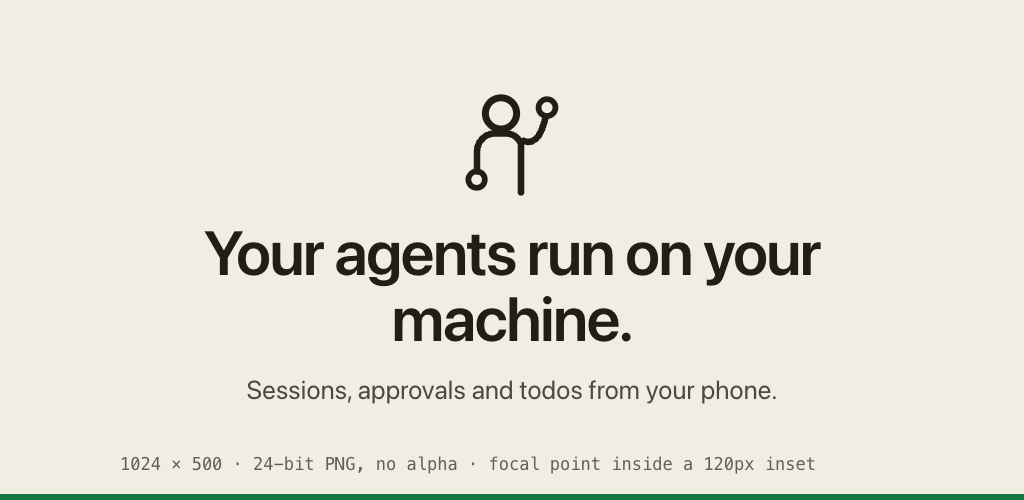
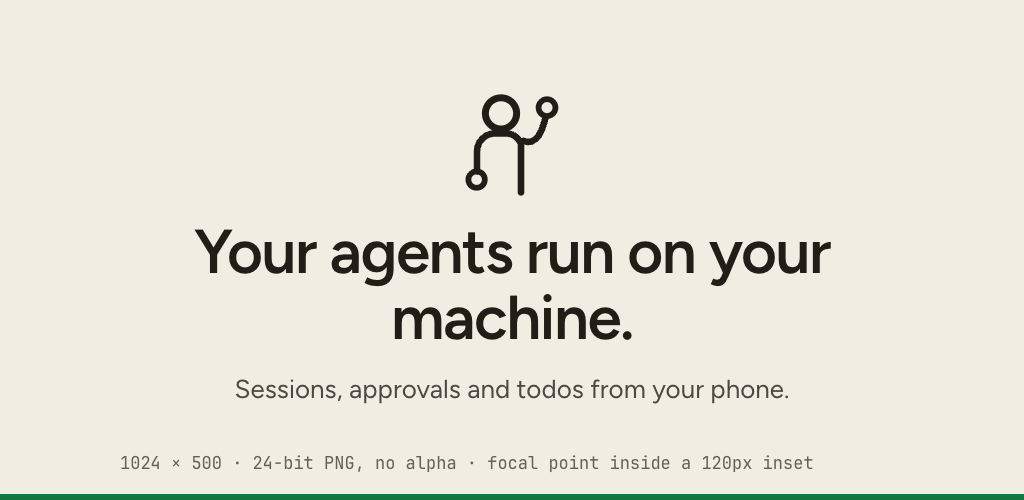
fix(design): load the vendored faces in the store capture templates
The store frame templates and the Play feature graphic name Figtree and JetBrains Mono, but nothing ever loaded them: on a machine where the faces are not installed — verified here, where neither is a system font — every caption silently fell back to the platform sans, changing the type scale and line-break rhythm of assets whose whole point is exactness. design/preview/index.html already loads real faces for exactly this reason; these files now carry their own @font-face rules pointing at the woff2s committed in design/fonts/, so every render gets the same type on any machine, including a fresh clone with no sibling checkout.

Evidence: the iPhone frame and the feature graphic re-render with visibly different (correct) type; the feature PNG is re-rendered by the same capture script, and design/preview/capture.mjs --check stays green (kit frames byte-identical, feature byte-identical to the fresh render, frame sizes pass).

diff --git a/design/store-screenshots/iphone-6.9.html b/design/store-screenshots/iphone-6.9.html
@@ -26,6 +26,28 @@
 			 * Sources for the sizes (read 2026-09-29):
 			 *   https://developer.apple.com/help/app-store-connect/reference/app-information/screenshot-specifications
 			 */
+			/* The vendored faces. Without a @font-face, `font-family: "Figtree"`
+			 * below matches nothing on a machine where the font is not installed,
+			 * and the caption silently falls back to the platform sans — wrong type
+			 * scale, wrong line breaks, in an asset whose whole point is exactness.
+			 * design/preview/index.html loads its faces for the same reason; this
+			 * one is self-contained, pointing at the woff2s committed beside it. */
+			@font-face {
+				font-family: "Figtree";
+				src: url("../fonts/figtree-variable-latin.woff2") format("woff2");
+				font-weight: 300 900;
+				font-style: normal;
+				font-display: block;
+			}
+
+			@font-face {
+				font-family: "JetBrains Mono";
+				src: url("../fonts/jetbrains-mono-variable.woff2") format("woff2");
+				font-weight: 100 800;
+				font-style: normal;
+				font-display: block;
+			}
+
 			* {
 				box-sizing: border-box;
 				margin: 0;

diff --git a/design/app-icon/store/play-feature-graphic.html b/design/app-icon/store/play-feature-graphic.html
@@ -40,6 +40,28 @@
 			 * that will not be visible at listing scale, and a 1024x500 crop of a
 			 * 390-wide phone UI is exactly that failure.
 			 */
+			/* The vendored faces. Without a @font-face, `font-family: "Figtree"`
+			 * below matches nothing on a machine where the font is not installed,
+			 * and the headline silently falls back to the platform sans — wrong type
+			 * scale, wrong line breaks, in an asset whose whole point is exactness.
+			 * design/preview/index.html loads its faces for the same reason; this
+			 * one is self-contained, pointing at the woff2s committed in design/. */
+			@font-face {
+				font-family: "Figtree";
+				src: url("../../fonts/figtree-variable-latin.woff2") format("woff2");
+				font-weight: 300 900;
+				font-style: normal;
+				font-display: block;
+			}
+
+			@font-face {
+				font-family: "JetBrains Mono";
+				src: url("../../fonts/jetbrains-mono-variable.woff2") format("woff2");
+				font-weight: 100 800;
+				font-style: normal;
+				font-display: block;
+			}
+
 			* {
 				box-sizing: border-box;
 				margin: 0;

diff --git a/design/store-screenshots/ipad-13.html b/design/store-screenshots/ipad-13.html
@@ -23,6 +23,28 @@
 			 * by 2064/1320 (1.564x) so the two listings read with the same
 			 * proportions rather than the iPad looking under-typeset.
 			 */
+			/* The vendored faces. Without a @font-face, `font-family: "Figtree"`
+			 * below matches nothing on a machine where the font is not installed,
+			 * and the caption silently falls back to the platform sans — wrong type
+			 * scale, wrong line breaks, in an asset whose whole point is exactness.
+			 * design/preview/index.html loads its faces for the same reason; this
+			 * one is self-contained, pointing at the woff2s committed beside it. */
+			@font-face {
+				font-family: "Figtree";
+				src: url("../fonts/figtree-variable-latin.woff2") format("woff2");
+				font-weight: 300 900;
+				font-style: normal;
+				font-display: block;
+			}
+
+			@font-face {
+				font-family: "JetBrains Mono";
+				src: url("../fonts/jetbrains-mono-variable.woff2") format("woff2");
+				font-weight: 100 800;
+				font-style: normal;
+				font-display: block;
+			}
+
 			* {
 				box-sizing: border-box;
 				margin: 0;

diff --git a/design/store-screenshots/play-phone.html b/design/store-screenshots/play-phone.html
@@ -36,6 +36,28 @@
 			 * bars: the export step belongs to the implementation phase, and the
 			 * slot label says the exact numbers.
 			 */
+			/* The vendored faces. Without a @font-face, `font-family: "Figtree"`
+			 * below matches nothing on a machine where the font is not installed,
+			 * and the caption silently falls back to the platform sans — wrong type
+			 * scale, wrong line breaks, in an asset whose whole point is exactness.
+			 * design/preview/index.html loads its faces for the same reason; this
+			 * one is self-contained, pointing at the woff2s committed beside it. */
+			@font-face {
+				font-family: "Figtree";
+				src: url("../fonts/figtree-variable-latin.woff2") format("woff2");
+				font-weight: 300 900;
+				font-style: normal;
+				font-display: block;
+			}
+
+			@font-face {
+				font-family: "JetBrains Mono";
+				src: url("../fonts/jetbrains-mono-variable.woff2") format("woff2");
+				font-weight: 100 800;
+				font-style: normal;
+				font-display: block;
+			}
+
 			* {
 				box-sizing: border-box;
 				margin: 0;
